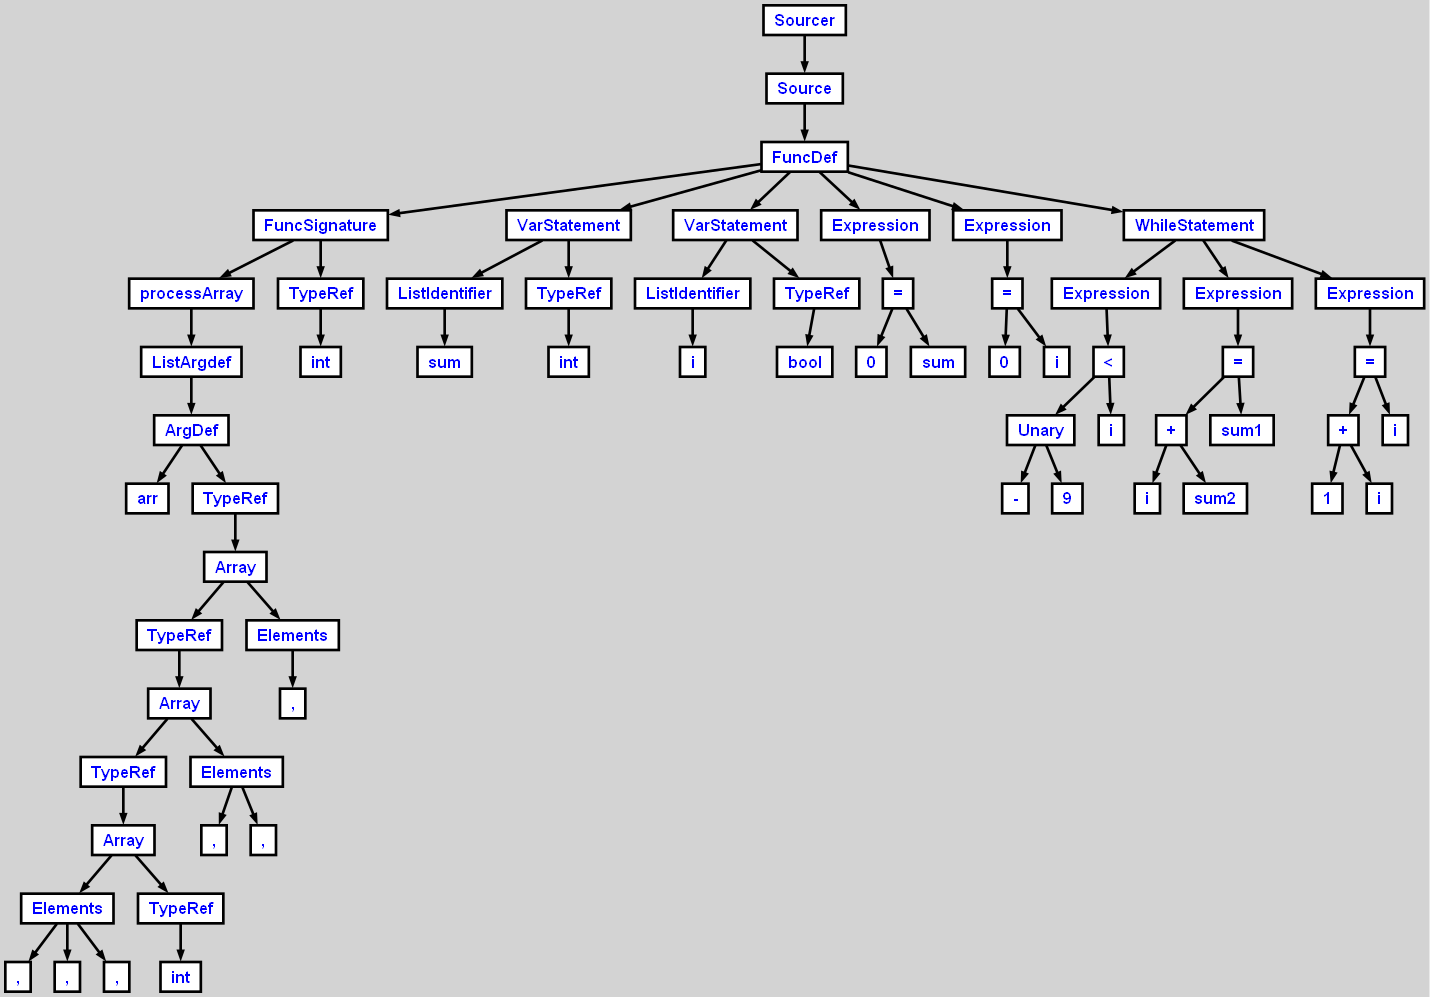
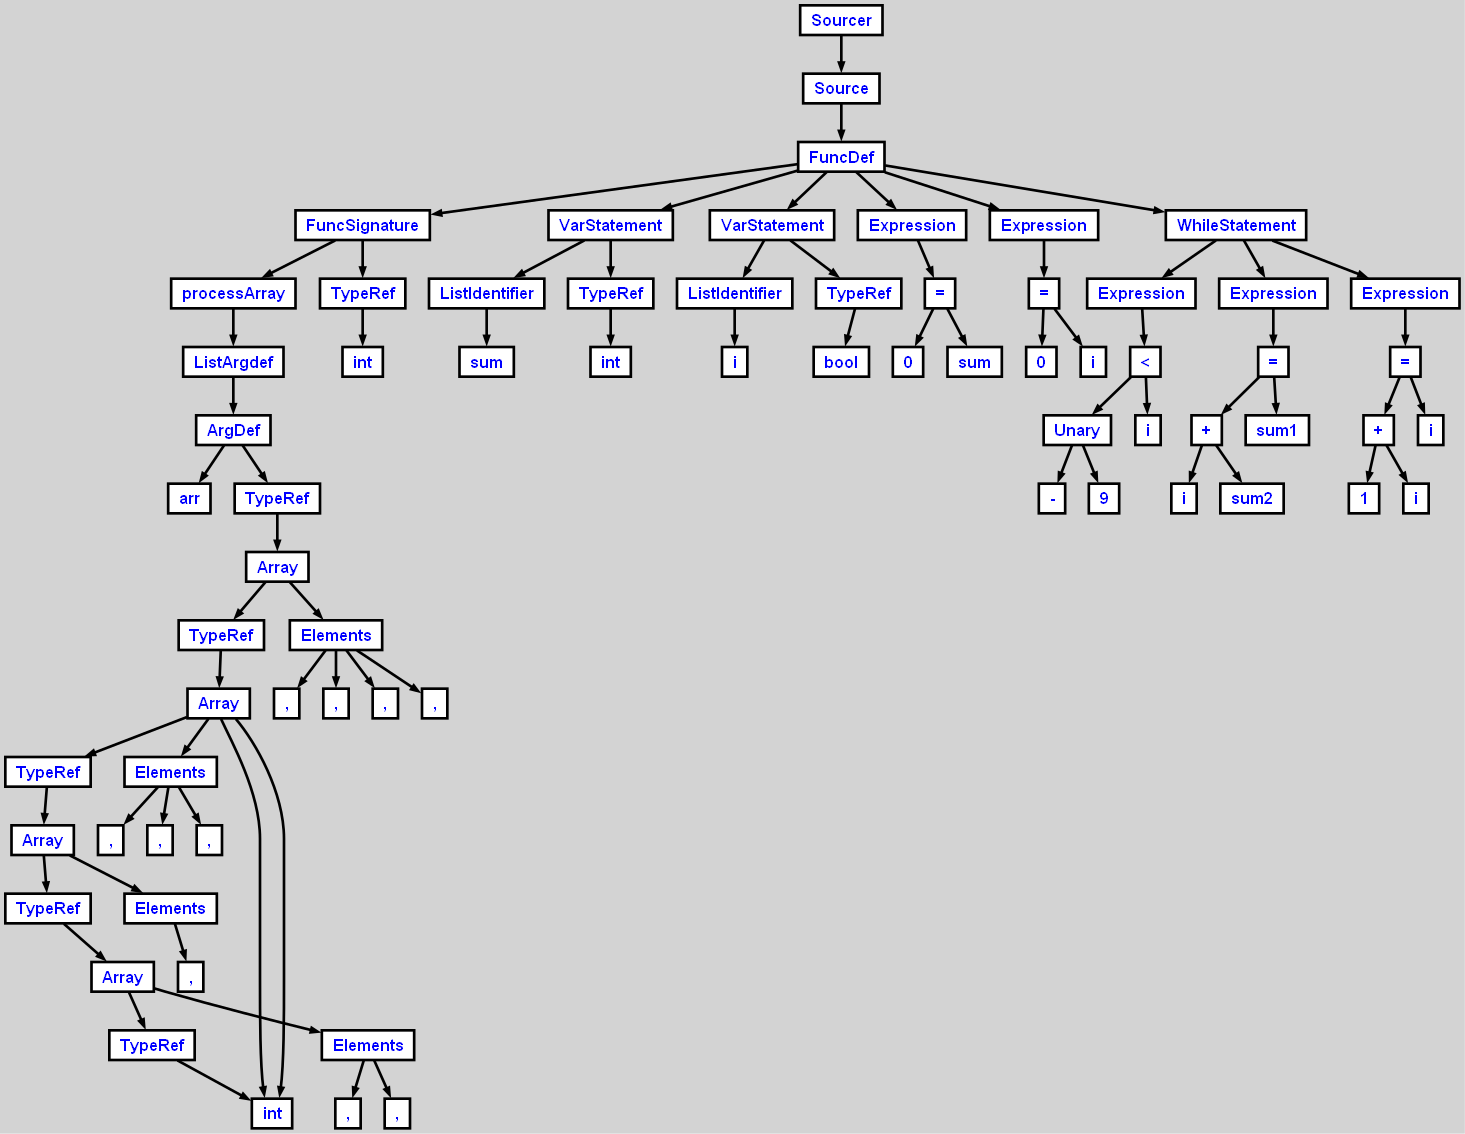
case 2 and 3

Changed region(s): [[0.0, 0.0, 1.0, 1.0]]

diff --git a/parser.c b/parser.c
@@ -3,8 +3,9 @@
 #include "MyGrammarLexer.h"
 #include "MyGrammarParser.h"
 #include<antlr3baserecognizer.h>
+//#include <antlr3base>
 
-
+//#include <queue>
 
 
 #include "parser.h"
@@ -33,7 +34,7 @@ ParseResult parse(char* text, size_t size, char* name) {
     p->pParser->rec->reportError = MyreportError;
 	MyGrammarParser_sourcer_return tu = p->sourcer(p);
     
-    run2(tu.tree, p);
+    run2(tu.tree);
 
     file = fopen("tree.dot", "w");
    
@@ -109,10 +110,10 @@ void freeErrorInfo(ErrorInfo* head) {
 #pragma endregion
 
 
-void runChildren(pANTLR3_BASE_TREE tree, pMyGrammarParser p) {
+void runChildren(pANTLR3_BASE_TREE tree) {
     if (tree->children != NULL) {
         for (int i = 0; i < tree->getChildCount(tree); i++) {
-            run2(getChild(tree, i), p);
+            run2(getChild(tree, i));
 
         }
     }
@@ -120,7 +121,7 @@ void runChildren(pANTLR3_BASE_TREE tree, pMyGrammarParser p) {
         return 0;
     }
 }
-int run2(pANTLR3_BASE_TREE tree, pMyGrammarParser p)
+int run2(pANTLR3_BASE_TREE tree)
 {
     if (tree) {
         pANTLR3_COMMON_TOKEN tok = tree->getToken(tree);
@@ -133,35 +134,97 @@ int run2(pANTLR3_BASE_TREE tree, pMyGrammarParser p)
            
             case TypeRef: {
                 if (tree->children != NULL) {
+                    pANTLR3_BASE_TREE elements=tree;
                     if (tree->children->count>1) {
+                        //queue<pANTLR3_BASE_TREE> typerefs;
                         pANTLR3_BASE_TREE type_node = getChild(tree, 1);
                         tree->deleteChild(tree, 1);
+                        //tree->getParent(tree)->addChild(tree->getParent(tree), type_node);
+                        pANTLR3_BASE_TREE type_tree_base = tree;
+                         
                         pANTLR3_BASE_TREE type_tree = tree->dupNode(tree);
                         type_tree->addChild(type_tree, type_node);
-                        int flag = 0;
+                        int complexity = 0;
                     while (tree->getChildCount(tree) > 0) {
                         
                          tree = tree->getChild(tree, 0);
                          pANTLR3_COMMON_TOKEN tok1 = tree->getToken(tree);
+                         pANTLR3_COMMON_TOKEN tok3 = elements->getToken(elements);
+
                          if (tok1->type == Array&& tree->getChildCount(tree) ==1) {
                                  break;
                          }
+                         if (tok1->type == Array&&tree->children->count > 1) {
+                             if (elements &&tok3->type==Elements) {
+                                 tree->addChild(tree, elements);
+
+                             }
+                             elements = getChild(tree, 1);
+                             tree->deleteChild(tree, 1);
+                             //pANTLR3_BASE_TREE array_tree = tree;
+                             complexity++;
+                         }
                          
                     }
+                    //pANTLR3_BASE_TREE typeRefs=(pANTLR3_BASE_TREE)malloc(complexity * sizeof(pANTLR3_BASE_TREE));
+                    
                     pANTLR3_BASE_TREE array_tree=tree;
                     array_tree->addChild(array_tree,type_tree);
+                    pANTLR3_BASE_TREE elements_tree = getChild(array_tree, 0);
+                    array_tree->deleteChild(array_tree, 0);
+                    array_tree->addChild(array_tree, elements_tree);
+                    //
+                    array_tree->addChild(array_tree, elements);
+                    elements = getChild(array_tree, 1);
+                    array_tree->deleteChild(array_tree, 1);
+
+                    pANTLR3_BASE_TREE first_array = getChild(type_tree_base, 0);
+                    first_array->addChild(first_array, elements);
+
+                    tree = getChild(first_array, 0);
+                    type_tree_base = tree;
+                    while (complexity > 1) {
+                        elements = tree;
+
+                        while (tree->getChildCount(tree) > 0) {
+
+                            tree = tree->getChild(tree, 0);
+                            pANTLR3_COMMON_TOKEN tok1 = tree->getToken(tree);
+                            pANTLR3_COMMON_TOKEN tok3 = elements->getToken(elements);
+
+                            if (tok1->type == Array && tree->getChildCount(tree) == 1) {
+                                break;
+                            }
+                            if (tok1->type == Array && tree->children->count > 1) {
+                                if (elements && tok3->type == Elements) {
+                                    tree->addChild(tree, elements);
+
+                                }
+                                elements = getChild(tree, 1);
+                                tree->deleteChild(tree, 1);
+                         
+                            }
+
+                        }
+             
+                        array_tree = getChild(type_tree_base, 0);
+                        array_tree->addChild(array_tree, elements);
+               
+                        complexity--;
+
+                    }
 
                     return 0;
 
                     }
-                    runChildren(tree, p);
+                    runChildren(tree);
                     return 0;
                 }
 
             }
             
             default: {
-                          runChildren(tree, p);
+                          runChildren(tree);
                           break;
             }
             }
